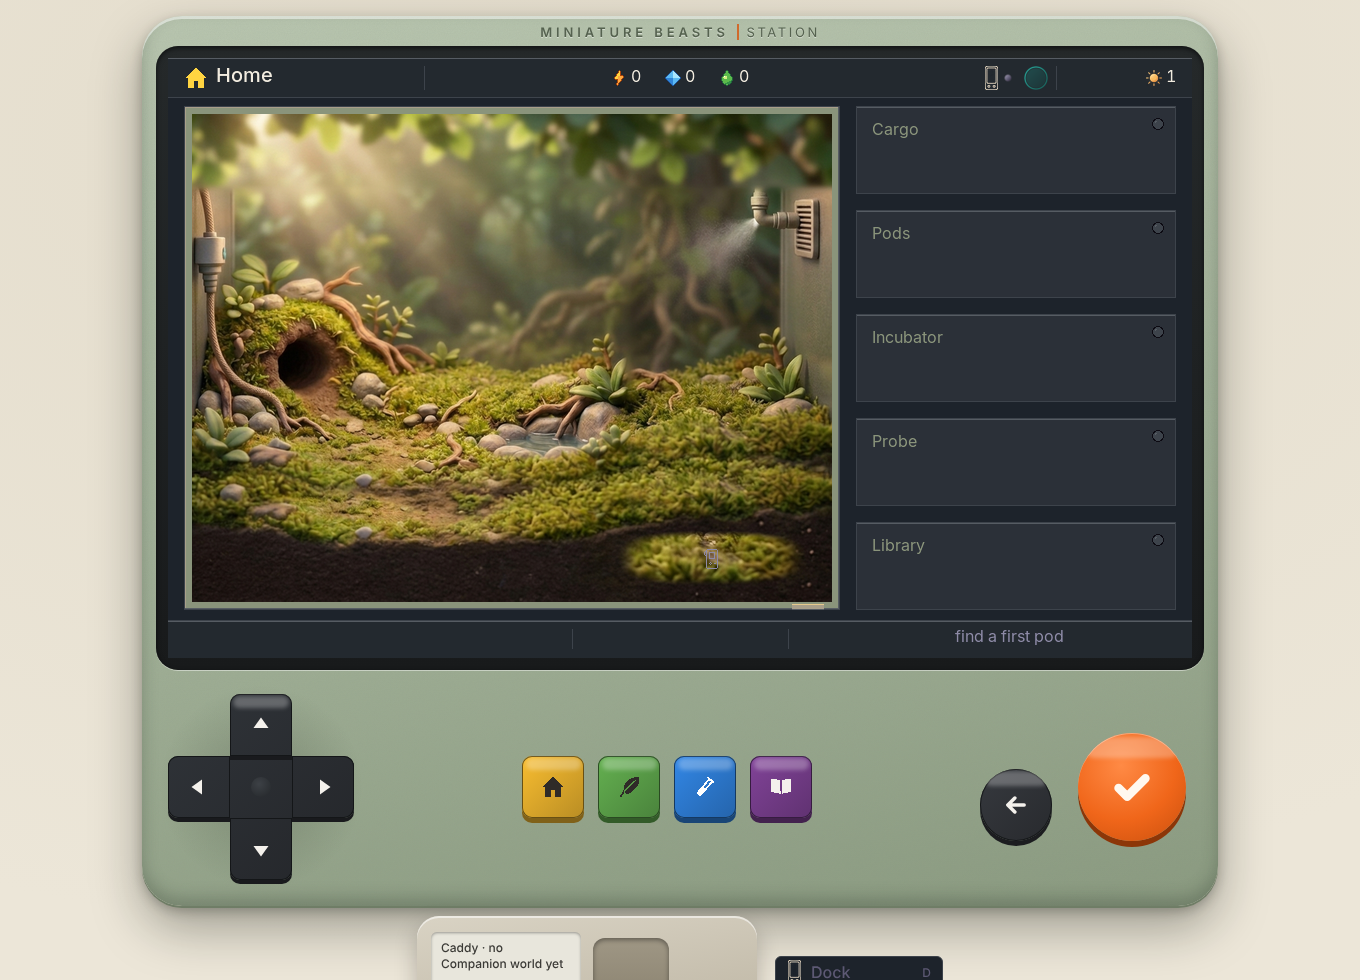
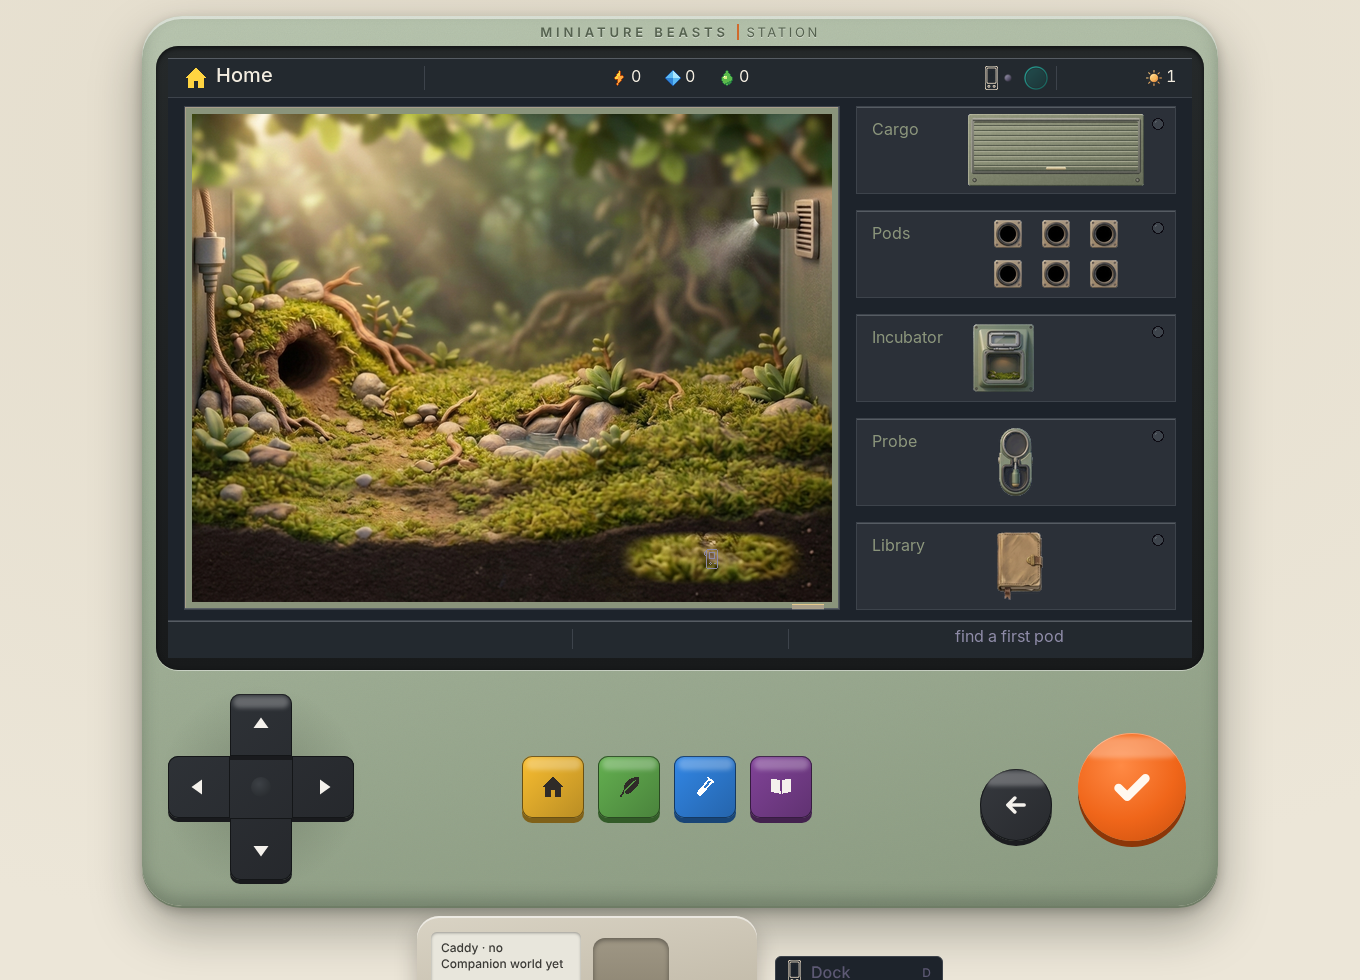
Home: page-fresh retaken with the column, the crates no longer named hand masters in the Station README

Changed region(s): [[0.7103, 0.0918, 0.8647, 0.398], [0.7103, 0.4286, 0.7721, 0.6122]]

diff --git a/prototypes/station/README.md b/prototypes/station/README.md
@@ -69,7 +69,7 @@ The four middle keys switch views and never spend. Every spend is one deliberate
 - **The Caddy client** (`src/caddy.mjs`): the service is called only for the portrait at the sitting. Nothing calls it at Grow or Cross: the outbox keeps only an entry marked `sitting` (normalize drops any other), so `anyWaiting` is false and polling stays off until a sitting queues one. `m.paint` stays in the save and is never drawn; `lampText` has no caller until the sitting uses it. The developer panel's painter setting (`mock`, `real`, `off`) rides along with a sitting's job; the service's own mode and ceiling decide.
 - **Cross** (✓ on an adult's cross mark in the vivarium, up close). *Its layout is a placeholder, marked as such: the style guide's station-layouts.md does not cover the Cross screen yet, so the screen follows design/style-guide/station-layouts.md's words (parents in the outer thirds, the child and forecast centred) with no composition of the builder's own beyond that; the UI designer's spec replaces it when it lands.* The screen: the two parents left and right (alive; a partner away with you is dimmed, not ineligible), ◀ ▶ pick the partner among the adults of that species, the child to be under frost between them, the kinship line (wild founders · kinship 0, half kin, close kin · a quarter, with the identity share as a caution at kinship 0), both stamps on plates. The forecast, one row per trait (▲▼ page by five): for a switch four seed pictures of this pod's child, quarters by the pairings of the mother's copies against the father's (under the penalty more of the four wear the hidden look; a sleeping bud marks a seed that hides something), "known for sure" where both parents match; for a blend a range picture, the trait drawn at the two ends the child can land in with the stretch between them, "firm" when both ends fall in one bin, "narrowed" under close kin; doings forecast the same way; sealed chapters show shut. Refused before cost with the reason and no ✓ cap: the same individual, another species, not adult, no bay free, the incubator busy. `✓ Cross them · 2 ⚡ 4 ❀ · ← Vivarium`: the child is drawn once and built before anything is spent (a child that cannot be built never exists; its clashing traits are named and nothing is paid), then the bud takes it (twenty minutes) with `parents`, two snapshots of id, name, code, sha and genome, the family tree's record.
 - **The child**: opens known only where the Station could be sure (every trait of the chapter a switch whose parents matched; a blend is never sure), the rest "one of these until read": the vivarium's card shows its chapters as tabs with their price (1 ◆ a trait, half once the chapter was read on the species, the first read ever free) and ✓ on a tab reads it; the card says "of Dot and Nib". Kinship walks the recorded parents three generations deep (parent and child a quarter, full siblings a quarter, half siblings an eighth), with genome identity as the fallback where a parent is unknown.
-- **Home** (on the face, `views/home-props.mjs` from `home.json`): the living window with the residents at home walking and the carried set asleep on the with-you bed, the column of five modules (Cargo, Pods, Incubator, Probe, Library) with their lamps and objects, the rest knob, the notice and the room's ✓ for what needs the player. ✓ on a module opens its section (the Probe bench and the others are not built yet), the knob rests the screen into Idle; the Dock key slides the crates into the Cargo module and leaves no plate. The residents are the genome-rendered stand-ins (a sleeper fitted in 96×88), standing and never mirrored; the bed is a PH plate (`stone` with a `mist` edge) until its master lands, and the rack pods are composed from the art director's hand layers (the pod's 1-bit masks recoloured by the species' pair and A's ramp, 24×32, never scaled); the crates, the leaves, the Shield plates, a held sitting and the bed's mark are the art director's hand masters; the bay, the wells, the chamber, the cradle and the journal are the signed masters (the Home column and the recut bay and crates, all painted); only the nap poses are left empty (the register in `art.mjs`, `home.json` `placeholders`). Away, the bed shows its mark.
+- **Home** (on the face, `views/home-props.mjs` from `home.json`): the living window with the residents at home walking and the carried set asleep on the with-you bed, the column of five modules (Cargo, Pods, Incubator, Probe, Library) with their lamps and objects, the rest knob, the notice and the room's ✓ for what needs the player. ✓ on a module opens its section (the Probe bench and the others are not built yet), the knob rests the screen into Idle; the Dock key slides the crates into the Cargo module and leaves no plate. The residents are the genome-rendered stand-ins (a sleeper fitted in 96×88), standing and never mirrored; the bed is a PH plate (`stone` with a `mist` edge) until its master lands, and the rack pods are composed from the art director's hand layers (the pod's 1-bit masks recoloured by the species' pair and A's ramp, 24×32, never scaled); the leaves, the Shield plates, a held sitting and the bed's mark are the art director's hand masters; the bay, the wells, the chamber, the cradle and the journal are the signed masters (the Home column and the recut bay and crates, all painted); only the nap poses are left empty (the register in `art.mjs`, `home.json` `placeholders`). Away, the bed shows its mark.
 - **Cargo** (on the face, `views/cargo-props.mjs` from `cargo.json`, the intents in `intents/cargo.mjs`): the bay with up to three sealed walk crates (shut when the Companion is away), the rack of six wells as Pods' collection, ✓ Open the bay opens every crate at once as the rule and plays them one at a time (`events.opening`: an arrival of crates × 3000 + 180 ms holding input crates × 3000 + 200; the counters and the turn are shown crate by crate through the top bar's own ticks, from the UI's `cargo.shown`; with reduced motion each step is a cut staged by props at its time), the report card (the pods, the reach of each walk, what was gathered, the Probe's mend from the dock, the world's lines) and its ✓, a jump to Pods' collection. The Dock key while the bay shows slides the crates in (`events.crateIn`); a Dock key during the opening waits for the report. A sitting crate is left out until its reveal is designed (`cargo.json` `regions.crates.sitting`). The bay's lid, the rack wells and the report's icons are PH plates; the crates and the haul's containers are the signed masters (`art.mjs`). The pending journey steps of Cargo moved to the journey (`home-bay`).
 - **Idle** (on the face, `views/idle-props.mjs` from `frame.json` `idle`): the whole screen with the Vivarium's painting of the light (dawn, day, dusk, night by the Station's local hour, `frame.json` `light`; the flat plates only while a light's slot is empty), the residents at home walking, the carried set asleep on the bed (or, away, the bed's mark), and one line on a strip (the crates in the bay while docked, the bud ready, the bud growing, the mibis out with the Companion; none, empty). The rest knob and the idle timer (60 s without a press on any screen, counted from the later of the last press and the end of a hold, an arrival or Cargo's report card; never during one) enter it with a 180 ms dither held 180 ms (a cut with reduced motion); the first press wakes and does nothing else; the Dock key wakes and docks (landing on Home with the ring on the room) or lifts.
 - **The Probe bench** (on the face, `views/bench-props.mjs` from `bench.json`, the intents in `intents/bench.mjs`; the screen id `bench`, opened by Home's Probe module): the Probe in its cradle with its Shield plates under it, the Mend switch (whether the dock mends every plate or two, free: `state.setMendFull`, `DOCK_MEND_FLOOR`) and the Upgrade slot (✓ arms, a second ✓ fits tier 2 for ⚡ 12 ◆ 4; short, it says what is missing and spends nothing). ✓ on the plates mends one for ⚡ 1 (held 300 ms); the install holds 900 ms; away the cradle is empty, the plates are gone, the switch still works. ← is Home with the ring on the Probe module. Its stage is the collection's until `room-bench-stage-probe` lands; the Probe, plates, switch, socket, part and adds are labelled placeholders until their masters are signed (P is a build state).
